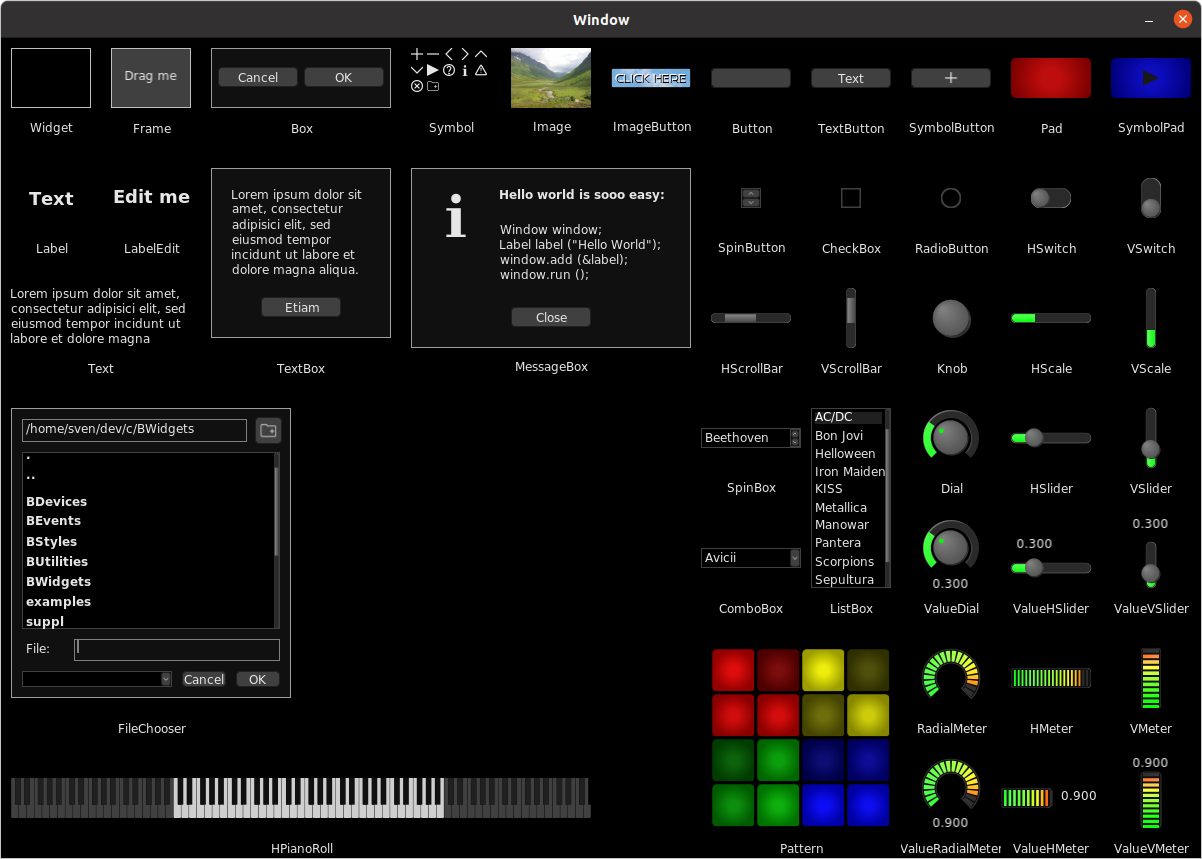
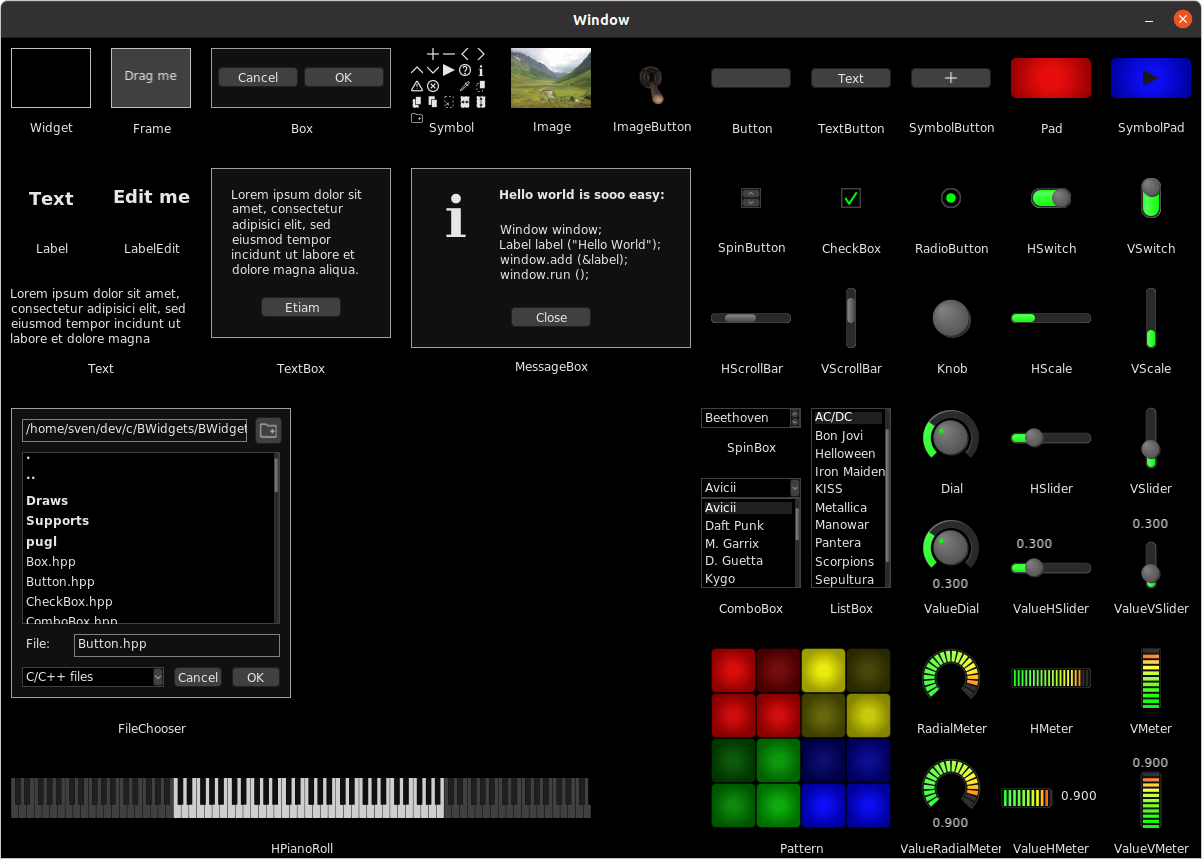
widgetgallery: minor visual improvements

diff --git a/examples/widgetgallery.cpp b/examples/widgetgallery.cpp
@@ -247,9 +247,9 @@ int main ()
     window.add (&spinBoxLabel);
 
     // ComboBox
-    ComboBox comboBox (700, 480, 100, 20, 0, 20, 100, 90, {"Avicii", "Daft Punk", "M. Garrix", "D. Guetta", "Kygo", "Marshmello", "R. Schulz", "DJ Spooky", "Tiësto", "A. van Buren", "P. van Dyke", "S. Väth", "A. Walker"});
+    ComboBox comboBox (700, 440, 100, 20, 0, 20, 100, 90, {"Avicii", "Daft Punk", "M. Garrix", "D. Guetta", "Kygo", "Marshmello", "R. Schulz", "DJ Spooky", "Tiësto", "A. van Buren", "P. van Dyke", "S. Väth", "A. Walker"});
     comboBox.setValue (1);
-    Label comboBoxLabel (710, 450, 80, 20, "ComboBox");
+    Label comboBoxLabel (710, 560, 80, 20, "ComboBox");
     comboBoxLabel.setFont (labelFont);
     window.add (&comboBox);
     window.add (&comboBoxLabel);
